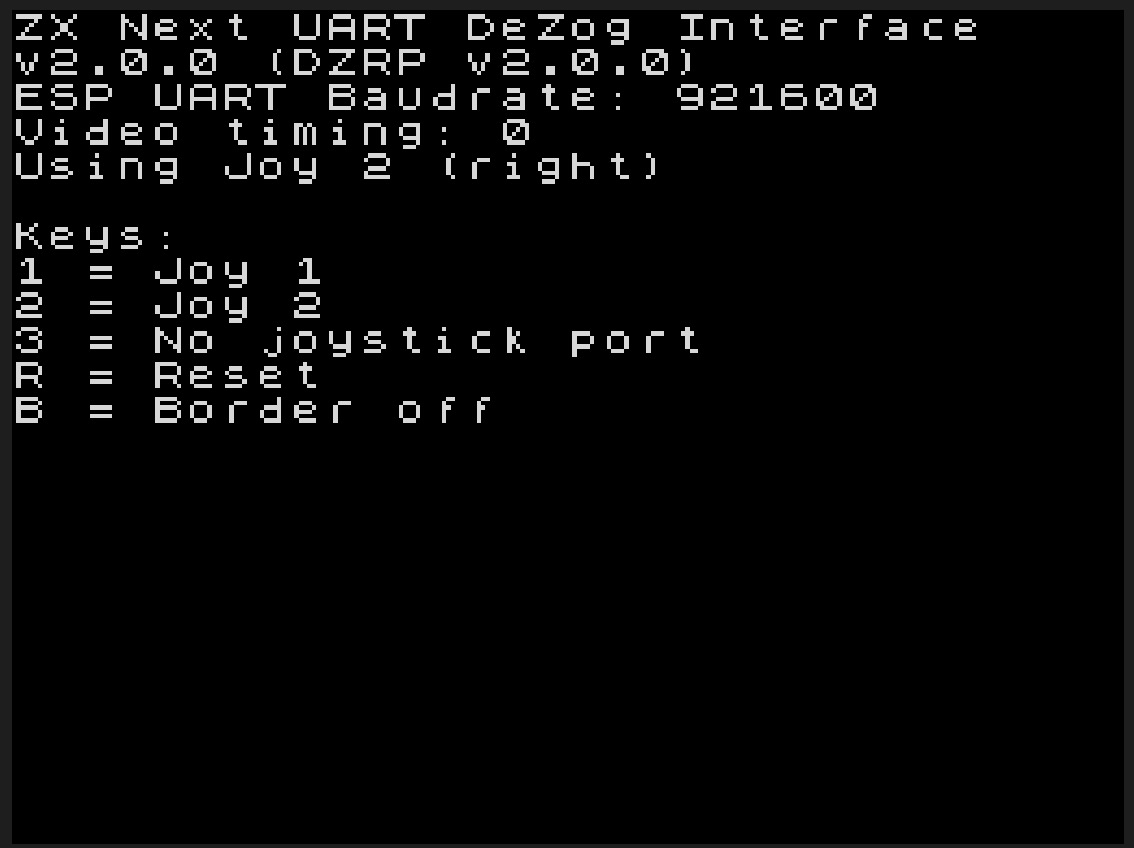
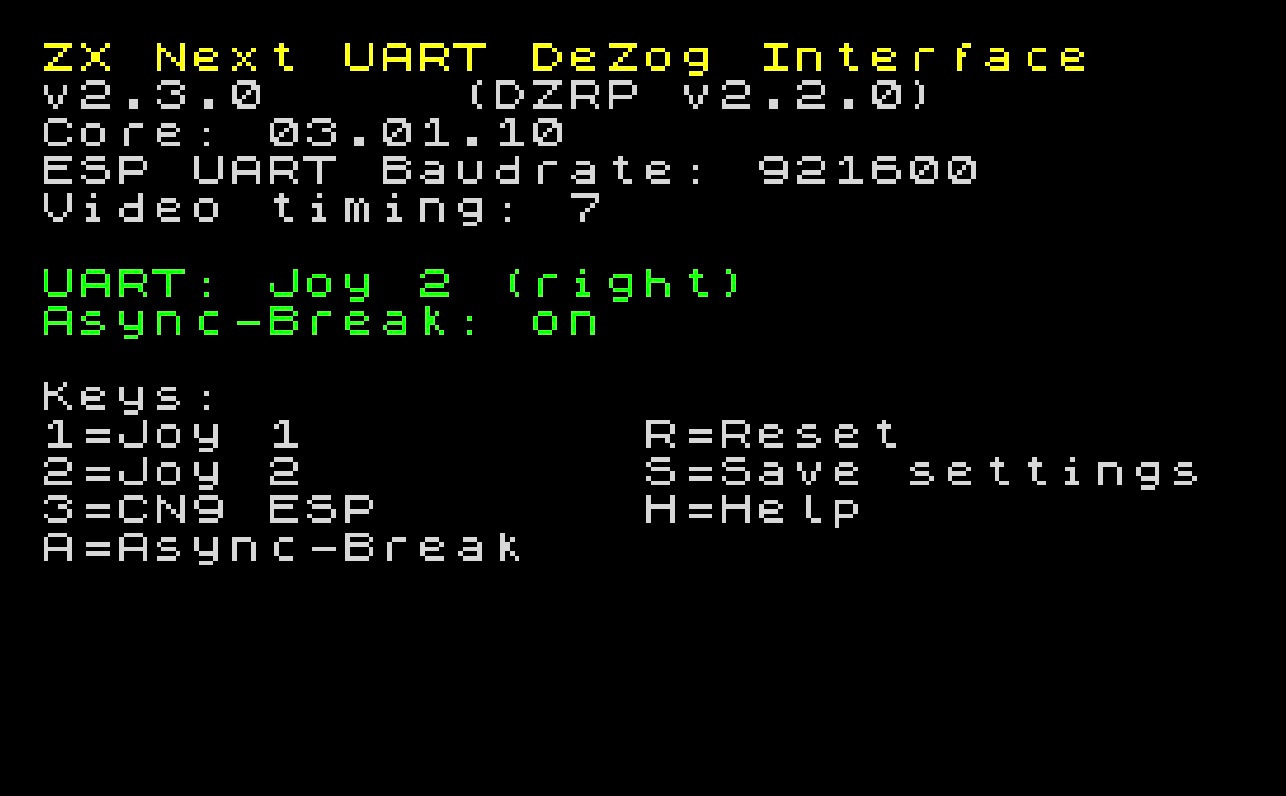
Documentation update

diff --git a/src/remotes/dzrpbuffer/dzrptransportremote.ts b/src/remotes/dzrpbuffer/dzrptransportremote.ts
@@ -32,12 +32,6 @@ class MessageBuffer {
  * create a buffer to send. The buffer sending itself (sendBuffer) is
  * not implemented. Therefore the class needs to be derived.
  *
- * If some commands are not implemented in the derived remote, the derived remote should
- * not override the sendDzrpCmd... methods.
- * Instead it should use the supportedCommands property to indicate supported commands.
- * The configureFromCommands() will then manipulate the unused command
- * methods to throw errors.
- *
  * It receives the requests from the DebugSessionClass and
  * creates complete DZRP messages in a buffer.
  * At the end calls 'sendBuffer' which is not implemented.
@@ -52,7 +46,11 @@ class MessageBuffer {
  *
  * This class does not implement any complex flow/state handling.
  *
- * IF YOU IMPLEMEMENT A REMOTE THAT USES A PHYSICAL TRANSPORT AND
+ *  The DzrpTransportRemote basically is configured through the
+ * DZRP CMF_GET_SUPPORTED_COMMANDS command.
+ * I.e. the remote needs to support >= DZRP 2.2, implementing the CMD_GET_SUPPORTED_COMMANDS.
+ *
+ * IF YOU IMPLEMENT A REMOTE THAT USES A PHYSICAL TRANSPORT AND
  * USES THE DZRP PROTOCOL, YOU SHOULD DERIVE FROM THIS CLASS.
  */
 export class DzrpTransportRemote extends DzrpQueuedRemote {

diff --git a/src/remotes/dzrpbuffer/dzrpgenericremote.ts b/src/remotes/dzrpbuffer/dzrpgenericremote.ts
@@ -1,21 +1,16 @@
 import {DzrpTransportRemote as DzrpTransportRemote} from './dzrptransportremote';
 import {WithSocket} from './transportsocketmixin';
 import {WithSerial} from './transportserialmixin';
-import {DZRP} from '../dzrp/dzrpremote';
 
 
 /** A generic implementation of a DZRP remote.
  * Both, serial and socket implementations are provided.
  * These generic classes can support all DZRP commands.
- * The user can choose which commands are supported by using the
- * 'supportedCommands' property of "dzrp" in launch.json.
- * Per default only the dezogif specific commands are disabled.
- * I.e. CMD_SET_BREAKPOINTS and CMD_RESTORE_MEM.
+ * The DzrpGenericRemote basically is configured through the
+ * DZRP CMF_GET_SUPPORTED_COMMANDS command.
+ * I.e. the remote needs to support >= DZRP 2.2, implementing the CMD_GET_SUPPORTED_COMMANDS.
  */
 class DzrpGenericRemote extends DzrpTransportRemote {
-	protected defaultUnsupportedCommands = [
-		DZRP.CMD_SET_BREAKPOINTS, DZRP.CMD_RESTORE_MEM
-	];
 }
 
 export class DzrpGenericSocketRemote extends WithSocket(DzrpGenericRemote) {

diff --git a/src/remotes/dzrpbuffer/dzrpdezogifremote.ts b/src/remotes/dzrpbuffer/dzrpdezogifremote.ts
@@ -2,7 +2,6 @@ import {DzrpTransportRemote} from './dzrptransportremote';
 import {Z80RegistersStandardDecoder} from '../z80registersstandarddecoder';
 import {Z80RegistersZxNextDecoder} from './z80registerszxnextdecoder';
 import {DzrpTransportType, Settings} from '../../settings/settings';
-import {DZRP} from '../dzrp/dzrpremote';
 
 
 
@@ -20,21 +19,8 @@ export class DzrpDezogIfRemote extends DzrpTransportRemote {
 		super(settingsDzrpType);
 		// Init
 		this.supportsBreakOnInterrupt = false;
-		// Set automatically though supportedCommands:
-		// this.supportsASSERTION = true;
-		// this.supportsWPMEM = false;
-		// this.supportsLOGPOINT = true;
 	}
 
-	/** Returns the default unsupported commands for a dezogif
-	 * (zxnext) remote.
-	 */
-	protected getDefaultUnsupportedCommands(): number[] {
-		return [
-			DZRP.CMD_GET_SPRITES, DZRP.CMD_GET_SPRITE_PATTERNS, DZRP.CMD_ADD_BREAKPOINT, DZRP.CMD_REMOVE_BREAKPOINT, DZRP.CMD_ADD_WATCHPOINT, DZRP.CMD_REMOVE_WATCHPOINT,
-			DZRP.CMD_READ_STATE, DZRP.CMD_WRITE_STATE
-		];
-	}
 
 	/** Override to create another decoder.
 	 */

diff --git a/src/remotes/dzrpbuffer/cspectremote.ts b/src/remotes/dzrpbuffer/cspectremote.ts
@@ -1,7 +1,6 @@
 import {DzrpTransportRemote} from './dzrptransportremote';
 import {CSpectType, Settings} from '../../settings/settings';
 import {WithSocket} from './transportsocketmixin';
-import {DZRP} from '../dzrp/dzrpremote';
 
 
 
@@ -19,15 +18,6 @@ export class CSpectRemote extends WithSocket(DzrpTransportRemote) {
 		super(settingsDzrpType);
 		// Init
 		this.supportsBreakOnInterrupt = false;
-	}
-
-
-	/** Returns the default unsupported commands for the CSpect remote.
-	 */
-	protected getDefaultUnsupportedCommands(): number[] {
-		return [
-			DZRP.CMD_SET_BREAKPOINTS, DZRP.CMD_RESTORE_MEM, DZRP.CMD_LOOPBACK, DZRP.CMD_ADD_WATCHPOINT, DZRP.CMD_REMOVE_WATCHPOINT, DZRP.CMD_READ_STATE, DZRP.CMD_WRITE_STATE
-		];
 	}
 
 

diff --git a/documentation/Usage.md b/documentation/Usage.md
@@ -220,6 +220,8 @@ A typical configuration looks like this:
     - "zrcp": Use ZEsarUX through the ZRCP (ZEsarUX Remote Control Protocol) via a socket. See [ZEsarUX](#zesarux).
     - "cspect": Use of CSpect emulator with the DeZog plugin. See [CSpect](#cspect).
     - "zxnext": Use a (USB-) serial connection connected to the UART of the ZX Next. See [ZX Next / Serial Interface](#zx-next--serial-interface).
+    - "dzrp": A generic dzrp connection. Experimental. Use to connect new DZRP remotes.
+    - "mame": Use to connect MAME through a socket connection. See [MAME](#mame---multiple-machine-arcade-emulatormame).
 - [sjasmplus] (or z80asm or z88dk): The assembled configuration. An array of list files. (Or in case of sjasmplus: sld files.) Typically it includes only one. But if you e.g. have a
 list file also for the ROM area you can add it here.
 Please have a look at the [Assembler Configuration](#assembler-configuration) section.
@@ -613,6 +615,7 @@ They are distinguished via the "remoteType":
 - "cspect": CSpect emulator
 - "zxnext": ZX Next connected via serial cable.
 - "mame": MAME emulator.
+- "dzrp": A generic dzrp connection. Experimental. Use to connect new DZRP remotes.
 
 
 ### What is a 'Remote'?
@@ -1364,9 +1367,11 @@ Note: If one of the 2 joystick ports is used to connect the UART it is still pos
 
 #### Pausing the Debugged Program
 
-While the debugged program is running there is no communication between DeZog and the ZX Next.
-I.e. it is also not possible to pause the program through the serial cable.
-For pausing your program you need to press the yellow M1 button at the left side of your ZX Next.
+If you have "Async-Break" enabled in dezogif's UI you can break your program on the ZX Next by pressing "Pause" in DeZog.
+However if you have disabled it you can only pause by pressing the yellow M1/NMI button at the left side of your ZX Next.
+The "Async.Break" feature makes use of the Copper functionality. If you don't use Copper you don't have to do anything.
+Pausing will just work.
+If you use the Copper please check the documentation [here](https://github.com/maziac/dezogif/blob/main/documentation/AsynchronousBreak.md) to pause from DeZog.
 
 
 #### HW
@@ -1430,8 +1435,8 @@ You can solder it directly or use the socket that is already available on the bo
 
 ##### Joystick ports
 
-As the joystick ports are shared by the joysticks and by the UART/serial cable the communication with DeZog can happen only when the debugged program is being paused.
-E.g. you can't set a breakpoint while your program is running. You need to pause it first, set a new breakpoint and then continue the program.
+If "Async-Break" is on and joystick port 1 or 2 is used the additional MD joystick functionality, e.g. the START button, is not available.
+Normal joystick functionality will still work.
 
 
 ##### Memory banks
@@ -1506,7 +1511,47 @@ However, you can still use "read-only paging" in your program, you just shouldn'
 ##### NMI
 
 Note: The dezogif (enNextMf.rom) uses core 03.01.10 which supports the "stackless NMI".
-I.e. interrupting the debugged program (by pressing the yellow NMI button) cannot corrupt the stack of the debugged program.
+I.e. interrupting the debugged program (e.g. by pressing the yellow NMI button) cannot corrupt the stack of the debugged program.
+
+
+#### Socket connection / WiFi
+
+The "zxnext" does support a socket connection, too.
+This is experimental at the moment.
+You can use it to connect to a ZXNext via WiFi. Therefore you have to use `dezogif_ng`.
+It is an alternate `enNextMF.rom` which allows to debug a ZX Next program via WiFi:
+[dezogif_ng](https://github.com/jorgegv/dezogif_ng) by [jorgegv](https://github.com/jorgegv).
+
+To use it you need to configure the port instead of the serial interface:
+~~~json
+    "zxnext": {
+        "port": 14000
+    }
+~~~
+
+
+### Generic DZRP
+
+At the moment this is an experimental feature only.
+It works very similar to "zxnext" and allows for a DZRP (DZRP version >= 2.2.0) connection via socket or serial.
+
+The launch.json for DeZog is:
+~~~json
+    "remoteType": "dzrp",
+    "dzrp": {
+        "port": 14000
+    }
+~~~
+
+for a socket connection or
+~~~json
+    "remoteType": "dzrp",
+    "dzrp": {
+        "serial": "/dev/tty.usbserial-AQ"
+    }
+~~~
+
+for a serial connection.
 
 
 ### MAME - Multiple Machine Arcade Emulator

diff --git a/README.md b/README.md
@@ -133,7 +133,7 @@ For more demanding projects you have the choice to install a real emulator.
 
 These are the options:
 
-- the [CSpect](http://www.cspect.org) emulator (known to be interoperable is version 3.0.15.2)
+- the [CSpect](http://www.cspect.org) emulator (known to be interoperable is version ???. Versions older than ??? are not compatible.) TODO: Update version numbers.
 - the [ZEsarUX](https://github.com/chernandezba/zesarux) emulator (known to be interoperable is version 12.1. Versions older than 10.3 are not compatible.)
 - [MAME](https://www.mamedev.org/release.html) (known to be interoperable is version 0.242)
 
@@ -208,6 +208,7 @@ I would like to express my gratitude to the following individuals for their inva
 - [Sebastien Andrivet](https://github.com/andrivet) for help with the ZX81 simulator and the ZX81 and ZX Spectrum keyboard svg files. Great work. Both are included under the [CC BY-SA 4.0](https://creativecommons.org/licenses/by-sa/4.0/?ref=chooser-v1) license.
 - [Paul Farrow](http://www.fruitcake.plus.com/) for the help on the ZX81 graphics modes.
 - [Víctor Morilla](https://github.com/vmorilla) for the z88dk addition to label parsing, enabling setting of breakpoints and stepping through C source code.
+- [Jorge Gonzalez](https://github.com/jorgegv) for finding and correcting bugs in `dezogif` and for his implementation of the "Async-Break". Please also have a look at his fantastic ZX Next emulator [JNext](https://www.jnext.es/) and his [dezogif_ng](https://github.com/jorgegv/dezogif_ng) to allow debugging through WiFi.
 
 
 # Tutorials
@@ -223,7 +224,7 @@ The tutorials that I'm aware of are listed here by date.
 
 Date: Apr-2022, DeZog 2.7, ZX Next
 
-The most recent and only tutorial[tutorial](https://amaninhistechnoshed.com/a-man-in-his-technoshed/coding) for DeZog 2.x, by [A MAN IN HIS TECHNO SHED](https://amaninhistechnoshed.com/a-man-in-his-technoshed/).
+The most recent and only [tutorial](https://amaninhistechnoshed.com/a-man-in-his-technoshed/coding) for DeZog 2.x, by [A MAN IN HIS TECHNO SHED](https://amaninhistechnoshed.com/a-man-in-his-technoshed/).
 It shows debugging with a ZX Next and DeZog.
 
 

diff --git a/documentation/Migration.md b/documentation/Migration.md
@@ -5,6 +5,11 @@ This guide will provide some info what to do to update your projects from an ear
 There are changes to the DZRP and therefore to the remotes and the remote configuration.
 - the property `socketTimeout`has been renamed to `timeout` for `zrcp`, `cspect` and `mame`.
 - the remote `zxnext` not only supports a serial interface but additionally also a socket interface. The socket interface can be used for debugging the ZXNext through the WiFi interface. You will need to use `dezogif_ng` to use it (thanks @jorgegv). Confugre it with `socket` and `port`.
+- DeZog >= 3.8.0 requires DZRP >= 2.2.0.
+  - To use the ZXNext as debugging target you need to update deogif/enNextMf.rom. You can get it here: https://github.com/maziac/dezogif/releases
+  - To use CSpect you need a CSpect version >= XXXX TODO: Update version numbers.
+
+Further changes:
 - "zsim":
   - "defaultPortIn": Changed to allow all values 0..255.
   - "portInMode": This new property allows to define how a port read is treated if there are more than one device addressed by the read port. Useful especially for custom code.

diff --git a/CHANGELOG.md b/CHANGELOG.md
@@ -1,7 +1,9 @@
 # Changelog
 
 # 3.8.0
+- Uses and requires DZRP >= 2.2.0. Evaluates the CMD_GET_SUPPORTED_COMMANDS.
 - SNA file format. Now also file extension *.snx is supported.
+- A generic "dzrp" remote has been implemented which can connect via serial or socket connection.
 
 # 3.7.4
 - PR #193: Fixed bug where pressing 'stop' would sometimes take 5 seconds to disconnect. (mame)
